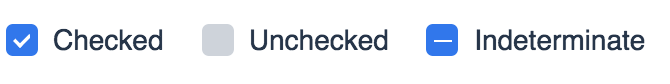
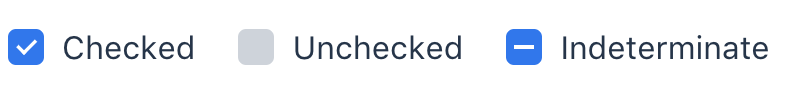
Update screenshot to use proper typography [skip ci]

diff --git a/packages/vaadin-checkbox/README.md b/packages/vaadin-checkbox/README.md
@@ -28,7 +28,7 @@
 <vaadin-checkbox indeterminate>Indeterminate</vaadin-checkbox>
 ```
 
-[<img src="https://raw.githubusercontent.com/vaadin/vaadin-checkbox/master/screenshot.png" width="385" alt="Screenshot of vaadin-checkbox, using the default Valo theme">](https://vaadin.com/elements/vaadin-checkbox)
+[<img src="https://raw.githubusercontent.com/vaadin/vaadin-checkbox/master/screenshot.png" width="400" alt="Screenshot of vaadin-checkbox, using the default Valo theme">](https://vaadin.com/elements/vaadin-checkbox)
 
 ## Getting Started
 
